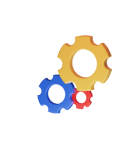
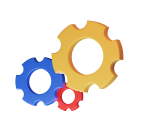
solve benefit problem

Changed region(s): [[0.0896, 0.1449, 0.8955, 0.8116]]

diff --git a/src/scss/benefits.scss b/src/scss/benefits.scss
@@ -91,8 +91,9 @@
   background-color: #f3cdff;
 }
 .gear-img {
-  transform: rotate(4deg);
-  bottom: -20px;
-  left: 170px;
+  width: 101px;
+  transform: rotate(-20deg);
+  bottom: 8px;
+  left: 189px;
   position: absolute;
 }
